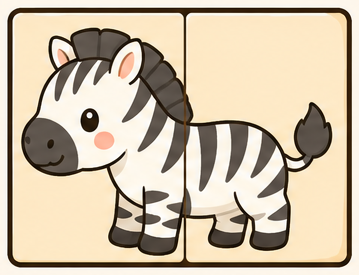
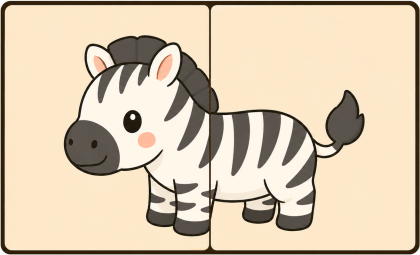
シマウマの画像を差し替え、壁マスを画像の茂みに変更
提供された2枚の画像から白背景をトリミングして差し替え：
- シマウマ: assets/images/animals/zebra.png を新しいイラストに更新
- 茂み: 手描きの円を重ねる実装をやめ、assets/images/terrain/bush.png
  の画像を壁マスにcoverで敷き詰める方式に変更
- 不要になった茂み用の色定義（bushLeaf系）をtheme.tsから削除

diff --git a/src/components/board-cell.tsx b/src/components/board-cell.tsx
@@ -1,32 +1,27 @@
-import { StyleSheet, View } from 'react-native';
+import { Image, StyleSheet, View } from 'react-native';
 
 import type { Terrain } from '@/engine';
-import { colors, terrainColors } from '@/theme';
+import { terrainColors } from '@/theme';
+
+const bushArt = require('@/assets/images/terrain/bush.png');
 
 type Props = {
   terrain: Terrain | 'wall';
+  /** 1マスの辺長(px)。茂み画像をパーセント指定にするとreact-native-webで高さ0になることがあるため、実寸で渡す。 */
+  size: number;
 };
 
 /** 盤面1マス分の地形背景。voidマスは呼び出し側（board.tsx）でそもそも描画しない。 */
-export function BoardCell({ terrain }: Props) {
+export function BoardCell({ terrain, size }: Props) {
+  if (terrain === 'wall') {
+    return (
+      <View style={styles.tile}>
+        <Image source={bushArt} resizeMode="cover" style={{ width: size, height: size }} />
+      </View>
+    );
+  }
   const palette = terrainColors[terrain];
-  return (
-    <View style={[styles.tile, { backgroundColor: palette.fill, borderColor: palette.dark }]}>
-      {terrain === 'wall' ? <Bush /> : null}
-    </View>
-  );
-}
-
-/** 配置不可マスを「草木」で表現する。画像アセット無しで葉の塊を重ねて茂みに見せる。 */
-function Bush() {
-  return (
-    <View style={styles.bush} pointerEvents="none">
-      <View style={[styles.leaf, styles.leafBack]} />
-      <View style={[styles.leaf, styles.leafLeft]} />
-      <View style={[styles.leaf, styles.leafRight]} />
-      <View style={[styles.leaf, styles.leafTop]} />
-    </View>
-  );
+  return <View style={[styles.tile, { backgroundColor: palette.fill, borderColor: palette.dark }]} />;
 }
 
 const styles = StyleSheet.create({
@@ -35,41 +30,5 @@ const styles = StyleSheet.create({
     borderWidth: 1,
     borderRadius: 6,
     overflow: 'hidden',
-  },
-  bush: {
-    flex: 1,
-  },
-  leaf: {
-    position: 'absolute',
-    borderRadius: 999,
-    backgroundColor: colors.bushLeaf,
-    borderWidth: 1.5,
-    borderColor: colors.bushLeafEdge,
-  },
-  leafBack: {
-    width: '78%',
-    height: '62%',
-    left: '11%',
-    top: '30%',
-    backgroundColor: colors.bushLeafDark,
-    borderColor: colors.bushLeafDarkEdge,
-  },
-  leafLeft: {
-    width: '52%',
-    height: '52%',
-    left: '2%',
-    top: '38%',
-  },
-  leafRight: {
-    width: '52%',
-    height: '52%',
-    left: '46%',
-    top: '38%',
-  },
-  leafTop: {
-    width: '56%',
-    height: '48%',
-    left: '22%',
-    top: '14%',
   },
 });

diff --git a/src/components/board.tsx b/src/components/board.tsx
@@ -55,7 +55,7 @@ export function Board({
             <View
               key={`${pos.r},${pos.c}`}
               style={[styles.cell, { left: pos.c * cell, top: pos.r * cell, width: cell, height: cell }]}>
-              <BoardCell terrain={terrain} />
+              <BoardCell terrain={terrain} size={cell} />
             </View>
           );
         })}

diff --git a/src/theme.ts b/src/theme.ts
@@ -23,10 +23,6 @@ export const colors = {
   wall: '#3C6B35',
   wallDark: '#254520',
   wallLight: '#5C8F53',
-  bushLeaf: '#6FA84A',
-  bushLeafEdge: '#4C7A34',
-  bushLeafDark: '#4F8236',
-  bushLeafDarkEdge: '#365B24',
 
   panel: '#FFF8EA',
   panelBorder: '#C89A5B',
